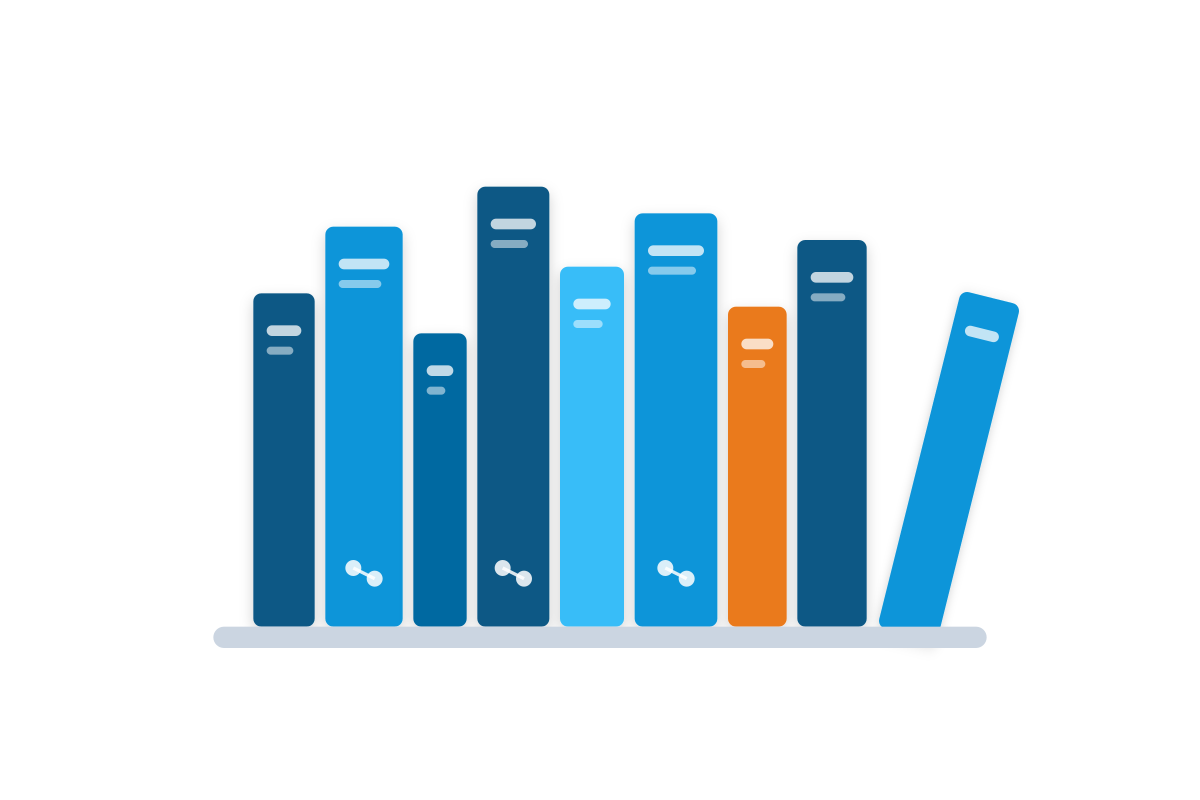
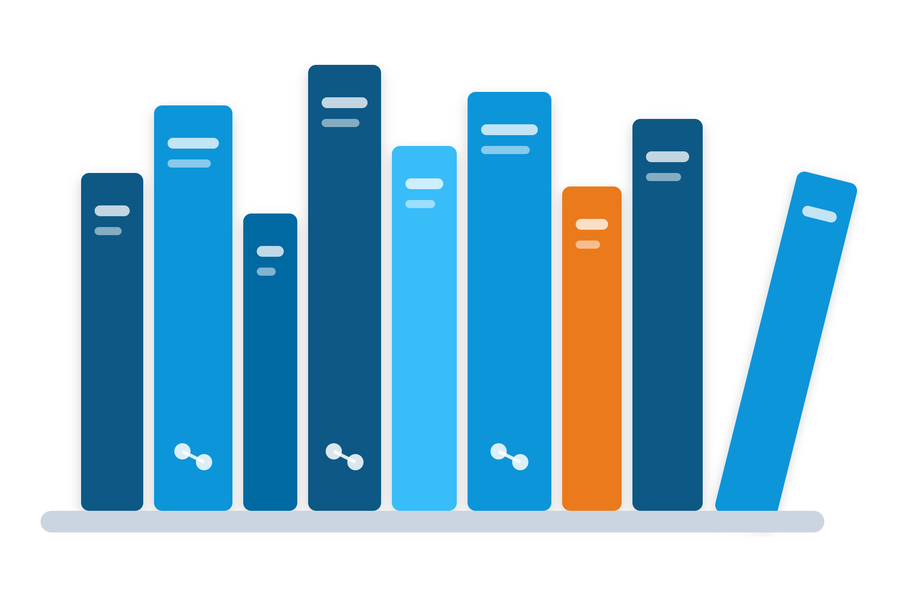
Home: zoom-in Research schematic, tighter images, narrower feature column
- Research image: text-free zoom-in schematic (crystal -> lattice -> atom)
- Crop surrounding whitespace from all three feature images and re-pad to 3:2
- Feature image width 40% -> 30% (mobile max 320px), white box background

Claude-Session: https://claude.ai/code/session_016QUmGCFHah6akn67xkkDmS

diff --git a/_styles/feature.scss b/_styles/feature.scss
@@ -13,8 +13,9 @@ $wrap: 800px;
 
 .feature-image {
   flex-shrink: 0;
-  width: 40%;
+  width: 30%;
   aspect-ratio: 3 / 2;
+  background: #ffffff;
   border-radius: var(--rounded);
   overflow: hidden;
   box-shadow: var(--shadow);
@@ -48,6 +49,6 @@ $wrap: 800px;
 
   .feature-image {
     width: 100%;
-    max-width: calc($wrap / 2);
+    max-width: 320px;
   }
 }
